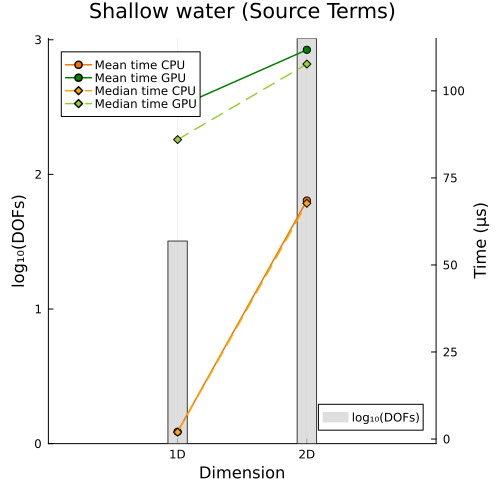
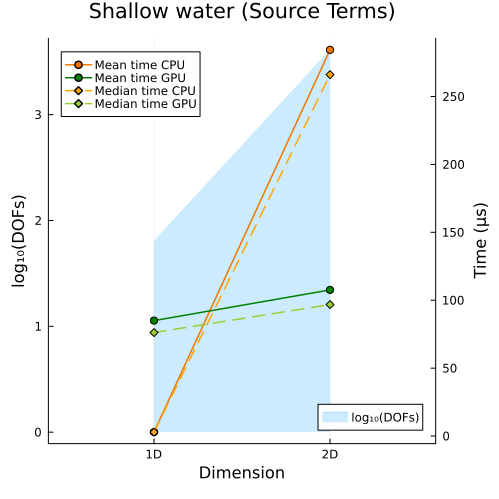
Deploying to gh-pages from  @ 5250f5a21b5779a0c4a3387f5e90d34b7bc2d409 🚀

diff --git a/benchmark/index.html b/benchmark/index.html
@@ -1,1 +1,1 @@
-<!doctype html> <html lang=en > <meta charset=UTF-8 > <meta name=viewport  content="width=device-width, initial-scale=1"> <link rel=stylesheet  href="/css/franklin.css"> <link rel=stylesheet  href="https://fonts.googleapis.com/css?family=Source+Sans+Pro:400,700,400italic|Source+Code+Pro:400,700" type="text/css"> <link rel=stylesheet  href="/css/font-awesome.min.css"> <link rel=stylesheet  href="/css/celeste.min.css"> <link rel=icon  type="image/png" sizes=192x192  href="/assets/favicon.png"> <link rel="shortcut icon" href="/assets/favicon.ico"> <link rel=apple-touch-icon-precomposed  sizes=152x152  href="/assets/apple-touch-icon.png"> <title>Comparison of <code>rhs&#33;</code> Performance: CPU vs. GPU</title> <header> <nav class=nav-main > <ul> <a class=hvr-underline-reveal  href="/" style="margin-top: 15px; margin-right: 15px"> <img src="/assets/favicon.png" alt=Logo  style="height: 45px; width: 45px"> </a> <li class=hvr-underline-reveal ><a href="/">Home</a> <li class=hvr-underline-reveal ><a href="/doc/">Doc</a> <li class=hvr-underline-reveal ><a href="/tutorial/">Tutorial</a> <li class=hvr-underline-reveal ><a href="/blog/">Blog</a> </ul> </nav> </header> <div class=franklin-content ><h1 id=comparison_of_rhs_performance_cpu_vs_gpu ><a href="#comparison_of_rhs_performance_cpu_vs_gpu" class=header-anchor >Comparison of <code>rhs&#33;</code> Performance: CPU vs. GPU</a></h1> <blockquote> <p>This documentation serves as a supplementary material for JuliaCon 2025. <br /></p> </blockquote> <p>See the benchmarking file at <a href="https://github.com/trixi-gpu/TrixiCUDA.jl/blob/v0.1.0-rc.2/benchmark/benchmark.ipynb">benchmark.ipynb</a>, and all results are compared between <a href="https://github.com/trixi-gpu/TrixiCUDA.jl/tree/v0.1.0-rc.2">TrixiCUDA.jl v0.1.0-rc.2</a> and <a href="https://github.com/trixi-framework/Trixi.jl/tree/v0.11.17">Trixi.jl v0.11.17</a>.</p> <p>We mainly show the mean and median times on CPU and GPU for each example, and include the degrees of freedom &#40;DOFs&#41; per field &#40;i.e., per independent solution variable&#41; in each plot, since DOFs are a dominant factor &#40;though not the only factor&#41; affecting computational time.</p> <p>We provide the link to each example in Trixi.jl as it is a more mature and stable package compared to TrixiCUDA.jl. Note that performance varies with different inputs; these benchmark results are provided for reference only.</p> <h2 id=linear_advection_equation ><a href="#linear_advection_equation" class=header-anchor >Linear Advection Equation</a></h2> <p>Left: Basic linear advection equation &#40;<a href="https://github.com/trixi-framework/Trixi.jl/blob/v0.11.17/examples/tree_1d_dgsem/elixir_advection_basic.jl">1D</a>, <a href="https://github.com/trixi-framework/Trixi.jl/blob/v0.11.17/examples/tree_2d_dgsem/elixir_advection_basic.jl">2D</a>, <a href="https://github.com/trixi-framework/Trixi.jl/blob/v0.11.17/examples/tree_3d_dgsem/elixir_advection_basic.jl">3D</a>&#41; <br />Right: Linear advection equation with mortar method &#40;<a href="https://github.com/trixi-framework/Trixi.jl/blob/v0.11.17/examples/tree_2d_dgsem/elixir_advection_mortar.jl">2D</a>, <a href="https://github.com/trixi-framework/Trixi.jl/blob/v0.11.17/examples/tree_3d_dgsem/elixir_advection_mortar.jl">3D</a>&#41;</p> <table style="background: transparent; border: none;"> <tr> <td style="background: transparent; border: none;"> <img src="/assets/benchmark/bench1.png" style="width: 300px;"> <td style="background: transparent; border: none;"> <img src="/assets/benchmark/bench2.png" style="width: 300px;"> </table> <h2 id=compressible_euler_equations ><a href="#compressible_euler_equations" class=header-anchor >Compressible Euler Equations</a></h2> <p>Left: Compressible Euler equations with entropy-conservative flux &#40;<a href="https://github.com/trixi-framework/Trixi.jl/blob/v0.11.17/examples/tree_1d_dgsem/elixir_euler_ec.jl">1D</a>, <a href="https://github.com/trixi-framework/Trixi.jl/blob/v0.11.17/examples/tree_2d_dgsem/elixir_euler_ec.jl">2D</a>, <a href="https://github.com/trixi-framework/Trixi.jl/blob/v0.11.17/examples/tree_3d_dgsem/elixir_euler_ec.jl">3D</a>&#41; Right: Compressible Euler equations with shock capturing &#40;<a href="https://github.com/trixi-framework/Trixi.jl/blob/v0.11.17/examples/tree_1d_dgsem/elixir_euler_shockcapturing.jl">1D</a>, <a href="https://github.com/trixi-framework/Trixi.jl/blob/v0.11.17/examples/tree_2d_dgsem/elixir_euler_shockcapturing.jl">2D</a>, <a href="https://github.com/trixi-framework/Trixi.jl/blob/v0.11.17/examples/tree_3d_dgsem/elixir_euler_shockcapturing.jl">3D</a>&#41;</p> <table style="background: transparent; border: none;"> <tr> <td style="background: transparent; border: none;"> <img src="/assets/benchmark/bench3.png" style="width: 300px;"> <td style="background: transparent; border: none;"> <img src="/assets/benchmark/bench4.png" style="width: 300px;"> </table> <h2 id=hyperbolic_diffusion_equations ><a href="#hyperbolic_diffusion_equations" class=header-anchor >Hyperbolic Diffusion Equations</a></h2> <p>Hyperbolic diffusion equations with non-periodic boundary conditions &#40;<a href="https://github.com/trixi-framework/Trixi.jl/blob/v0.11.17/examples/tree_1d_dgsem/elixir_hypdiff_nonperiodic.jl">1D</a>, <a href="https://github.com/trixi-framework/Trixi.jl/blob/v0.11.17/examples/tree_2d_dgsem/elixir_hypdiff_nonperiodic.jl">2D</a>, <a href="https://github.com/trixi-framework/Trixi.jl/blob/v0.11.17/examples/tree_3d_dgsem/elixir_hypdiff_nonperiodic.jl">3D</a>&#41;</p> <div align=center > <img src="/assets/benchmark/bench8.png" style="width: 300px;"> </div> <h2 id=ideal_glm-mhd_equations ><a href="#ideal_glm-mhd_equations" class=header-anchor >Ideal GLM-MHD Equations</a></h2> <p>Upper: Ideal GLM-MHD equations with entropy-conservative flux &#40;<a href="https://github.com/trixi-framework/Trixi.jl/blob/v0.11.17/examples/tree_1d_dgsem/elixir_mhd_ec.jl">1D</a>, <a href="https://github.com/trixi-framework/Trixi.jl/blob/v0.11.17/examples/tree_2d_dgsem/elixir_mhd_ec.jl">2D</a>, <a href="https://github.com/trixi-framework/Trixi.jl/blob/v0.11.17/examples/tree_3d_dgsem/elixir_mhd_ec.jl">3D</a>&#41; <br />Lower left: Ideal GLM-MHD Alfven wave &#40;<a href="https://github.com/trixi-framework/Trixi.jl/blob/v0.11.17/examples/tree_1d_dgsem/elixir_mhd_alfven_wave.jl">1D</a>, <a href="https://github.com/trixi-framework/Trixi.jl/blob/v0.11.17/examples/tree_2d_dgsem/elixir_mhd_alfven_wave.jl">2D</a>, <a href="https://github.com/trixi-framework/Trixi.jl/blob/v0.11.17/examples/tree_3d_dgsem/elixir_mhd_alfven_wave.jl">3D</a>&#41; <br />Lower right: Ideal GLM-MHD Alfven wave with mortar method &#40;<a href="https://github.com/trixi-framework/Trixi.jl/blob/v0.11.17/examples/tree_2d_dgsem/elixir_mhd_alfven_wave_mortar.jl">2D</a>, <a href="https://github.com/trixi-framework/Trixi.jl/blob/v0.11.17/examples/tree_3d_dgsem/elixir_mhd_alfven_wave_mortar.jl">3D</a>&#41;</p> <p> <div align=center > <img src="/assets/benchmark/bench5.png" style="width: 300px;"> </div> <table style="background: transparent; border: none;"> <tr> <td style="background: transparent; border: none;"> <img src="/assets/benchmark/bench6.png" style="width: 300px;"> <td style="background: transparent; border: none;"> <img src="/assets/benchmark/bench7.png" style="width: 300px;"> </table> </p> <h2 id=shallow_water_equations ><a href="#shallow_water_equations" class=header-anchor >Shallow Water Equations</a></h2> <p>Left: Shallow water equations with entropy conservative flux &#40;<a href="https://github.com/trixi-framework/Trixi.jl/blob/v0.11.17/examples/tree_1d_dgsem/elixir_shallowwater_ec.jl">1D</a>, <a href="https://github.com/trixi-framework/Trixi.jl/blob/v0.11.17/examples/tree_2d_dgsem/elixir_shallowwater_ec.jl">2D</a>&#41; <br />Right: Shallow water equations with source terms &#40;<a href="https://github.com/trixi-framework/Trixi.jl/blob/v0.11.17/examples/tree_1d_dgsem/elixir_shallowwater_source_terms.jl">1D</a>, <a href="https://github.com/trixi-framework/Trixi.jl/blob/v0.11.17/examples/tree_2d_dgsem/elixir_shallowwater_source_terms.jl">2D</a>&#41;</p> <table style="background: transparent; border: none;"> <tr> <td style="background: transparent; border: none;"> <img src="/assets/benchmark/bench9.png" style="width: 300px;"> <td style="background: transparent; border: none;"> <img src="/assets/benchmark/bench10.png" style="width: 300px;"> </table> <h2 id=takeaway ><a href="#takeaway" class=header-anchor >Takeaway</a></h2> <p>For simple cases &#40;for example, if the CPU performance is less than 100 μs&#41;, it is not advantageous to run on the GPU, since the overhead of using the GPU outweighs any performance gain. However, for more complex cases &#40;such as when execution time on the CPU exceeds 1,000 μs&#41;, running on the GPU can provide significant benefits. Also, remember that DOFs are the dominant, but not the sole—factor, affecting computation time.</p> <div class=page-foot > <p> &copy; <a href="https://github.com/trixi-gpu" target=_blank >Trixi-GPU</a> developers. Powered by <a href="https://github.com/tlienart/Franklin.jl" target=_blank >Franklin.jl</a> and the <a href="https://julialang.org" target=_blank >Julia programming language</a>. </p> </div></div>
+<!doctype html> <html lang=en > <meta charset=UTF-8 > <meta name=viewport  content="width=device-width, initial-scale=1"> <link rel=stylesheet  href="/css/franklin.css"> <link rel=stylesheet  href="https://fonts.googleapis.com/css?family=Source+Sans+Pro:400,700,400italic|Source+Code+Pro:400,700" type="text/css"> <link rel=stylesheet  href="/css/font-awesome.min.css"> <link rel=stylesheet  href="/css/celeste.min.css"> <link rel=icon  type="image/png" sizes=192x192  href="/assets/favicon.png"> <link rel="shortcut icon" href="/assets/favicon.ico"> <link rel=apple-touch-icon-precomposed  sizes=152x152  href="/assets/apple-touch-icon.png"> <title>Comparison of <code>rhs&#33;</code> Performance: CPU vs. GPU</title> <header> <nav class=nav-main > <ul> <a class=hvr-underline-reveal  href="/" style="margin-top: 15px; margin-right: 15px"> <img src="/assets/favicon.png" alt=Logo  style="height: 45px; width: 45px"> </a> <li class=hvr-underline-reveal ><a href="/">Home</a> <li class=hvr-underline-reveal ><a href="/doc/">Doc</a> <li class=hvr-underline-reveal ><a href="/tutorial/">Tutorial</a> <li class=hvr-underline-reveal ><a href="/blog/">Blog</a> </ul> </nav> </header> <div class=franklin-content ><h1 id=comparison_of_rhs_performance_cpu_vs_gpu ><a href="#comparison_of_rhs_performance_cpu_vs_gpu" class=header-anchor >Comparison of <code>rhs&#33;</code> Performance: CPU vs. GPU</a></h1> <blockquote> <p>This documentation serves as a supplementary material for JuliaCon 2025. <br /></p> </blockquote> <p>See the benchmarking file at <a href="">benchmark.ipynb</a> &#40;TODO: add link&#41;, and all results are compared between <a href="">TrixiCUDA.jl v0.1.0-rc.3</a> &#40;TODO: add link&#41; and <a href="https://github.com/trixi-framework/Trixi.jl/tree/v0.11.17">Trixi.jl v0.11.17</a>. All the benchmark examples can be found in the <a href="">benchmark</a> directory &#40;TODO: add link&#41;.</p> <p>We mainly show the mean and median times on CPU and GPU for each example, and include the degrees of freedom &#40;DOFs&#41; per field &#40;i.e., per independent solution variable&#41; in each plot, since DOFs are a dominant factor &#40;though not the only factor&#41; affecting computational time.</p> <p>We provide the link to each example in Trixi.jl as it is a more mature and stable package compared to TrixiCUDA.jl. Note that performance varies with different inputs; these benchmark results are provided for reference only.</p> <h2 id=approaches ><a href="#approaches" class=header-anchor >Approaches</a></h2> <p>We adopt two approaches here: </p> <ul> <li><p>First, we maintain a consistent solution resolution per space dimension by fixing both the degree of polynomial basis &#40;i.e., <code>polydeg</code>&#41; and mesh refinement level &#40;i.e., <code>initial_refinement_level</code>&#41;, while varying the problem dimension from 1D to 2D to 3D. In this way, we observe a linear increase in log DOFs with problem dimension.</p> <li><p>Second, for each problem type, we maintain a constant number of DOFs across 1D, 2D, and 3D by changing the polynomial degree &#40;i.e., <code>polydeg</code>&#41; and mesh refinement level &#40;i.e., <code>initial_refinement_level</code>&#41;. This way produces an roughly flat log DOFs curve across all dimensions.</p> </ul> <p>We will present benchmark results for two approaches.</p> <h2 id=results ><a href="#results" class=header-anchor >Results</a></h2> <h3 id=linear_advection_equation ><a href="#linear_advection_equation" class=header-anchor >Linear Advection Equation</a></h3> <p>Left: Basic linear advection equation &#40;<a href="https://github.com/trixi-framework/Trixi.jl/blob/v0.11.17/examples/tree_1d_dgsem/elixir_advection_basic.jl">1D</a>, <a href="https://github.com/trixi-framework/Trixi.jl/blob/v0.11.17/examples/tree_2d_dgsem/elixir_advection_basic.jl">2D</a>, <a href="https://github.com/trixi-framework/Trixi.jl/blob/v0.11.17/examples/tree_3d_dgsem/elixir_advection_basic.jl">3D</a>&#41; <br />Right: Linear advection equation with mortar method &#40;<a href="https://github.com/trixi-framework/Trixi.jl/blob/v0.11.17/examples/tree_2d_dgsem/elixir_advection_mortar.jl">2D</a>, <a href="https://github.com/trixi-framework/Trixi.jl/blob/v0.11.17/examples/tree_3d_dgsem/elixir_advection_mortar.jl">3D</a>&#41;</p> <ul> <li><p>First approach</p> </ul> <table style="background: transparent; border: none;"> <tr> <td style="background: transparent; border: none;"> <img src="/assets/benchmark/bench1.png" style="width: 300px;"> <td style="background: transparent; border: none;"> <img src="/assets/benchmark/bench2.png" style="width: 300px;"> </table> <ul> <li><p>Second approach</p> </ul> <table style="background: transparent; border: none;"> <tr> <td style="background: transparent; border: none;"> <img src="/assets/benchmark/bench1_.png" style="width: 300px;"> <td style="background: transparent; border: none;"> <img src="/assets/benchmark/bench2_.png" style="width: 300px;"> </table> <h3 id=compressible_euler_equations ><a href="#compressible_euler_equations" class=header-anchor >Compressible Euler Equations</a></h3> <p>Left: Compressible Euler equations with entropy-conservative flux &#40;<a href="https://github.com/trixi-framework/Trixi.jl/blob/v0.11.17/examples/tree_1d_dgsem/elixir_euler_ec.jl">1D</a>, <a href="https://github.com/trixi-framework/Trixi.jl/blob/v0.11.17/examples/tree_2d_dgsem/elixir_euler_ec.jl">2D</a>, <a href="https://github.com/trixi-framework/Trixi.jl/blob/v0.11.17/examples/tree_3d_dgsem/elixir_euler_ec.jl">3D</a>&#41; Right: Compressible Euler equations with shock capturing &#40;<a href="https://github.com/trixi-framework/Trixi.jl/blob/v0.11.17/examples/tree_1d_dgsem/elixir_euler_shockcapturing.jl">1D</a>, <a href="https://github.com/trixi-framework/Trixi.jl/blob/v0.11.17/examples/tree_2d_dgsem/elixir_euler_shockcapturing.jl">2D</a>, <a href="https://github.com/trixi-framework/Trixi.jl/blob/v0.11.17/examples/tree_3d_dgsem/elixir_euler_shockcapturing.jl">3D</a>&#41;</p> <ul> <li><p>Fisrt approach</p> </ul> <table style="background: transparent; border: none;"> <tr> <td style="background: transparent; border: none;"> <img src="/assets/benchmark/bench3.png" style="width: 300px;"> <td style="background: transparent; border: none;"> <img src="/assets/benchmark/bench4.png" style="width: 300px;"> </table> <ul> <li><p>Second approach </p> </ul> <table style="background: transparent; border: none;"> <tr> <td style="background: transparent; border: none;"> <img src="/assets/benchmark/bench3_.png" style="width: 300px;"> <td style="background: transparent; border: none;"> <img src="/assets/benchmark/bench4_.png" style="width: 300px;"> </table> <h3 id=hyperbolic_diffusion_equations ><a href="#hyperbolic_diffusion_equations" class=header-anchor >Hyperbolic Diffusion Equations</a></h3> <p>Hyperbolic diffusion equations with non-periodic boundary conditions &#40;<a href="https://github.com/trixi-framework/Trixi.jl/blob/v0.11.17/examples/tree_1d_dgsem/elixir_hypdiff_nonperiodic.jl">1D</a>, <a href="https://github.com/trixi-framework/Trixi.jl/blob/v0.11.17/examples/tree_2d_dgsem/elixir_hypdiff_nonperiodic.jl">2D</a>, <a href="https://github.com/trixi-framework/Trixi.jl/blob/v0.11.17/examples/tree_3d_dgsem/elixir_hypdiff_nonperiodic.jl">3D</a>&#41;</p> <ul> <li><p>First approach</p> </ul> <div align=center > <img src="/assets/benchmark/bench8.png" style="width: 300px;"> </div> <ul> <li><p>Second approach</p> </ul> <div align=center > <img src="/assets/benchmark/bench8_.png" style="width: 300px;"> </div> <h3 id=ideal_glm-mhd_equations ><a href="#ideal_glm-mhd_equations" class=header-anchor >Ideal GLM-MHD Equations</a></h3> <p>Upper: Ideal GLM-MHD equations with entropy-conservative flux &#40;<a href="https://github.com/trixi-framework/Trixi.jl/blob/v0.11.17/examples/tree_1d_dgsem/elixir_mhd_ec.jl">1D</a>, <a href="https://github.com/trixi-framework/Trixi.jl/blob/v0.11.17/examples/tree_2d_dgsem/elixir_mhd_ec.jl">2D</a>, <a href="https://github.com/trixi-framework/Trixi.jl/blob/v0.11.17/examples/tree_3d_dgsem/elixir_mhd_ec.jl">3D</a>&#41; <br />Lower left: Ideal GLM-MHD Alfven wave &#40;<a href="https://github.com/trixi-framework/Trixi.jl/blob/v0.11.17/examples/tree_1d_dgsem/elixir_mhd_alfven_wave.jl">1D</a>, <a href="https://github.com/trixi-framework/Trixi.jl/blob/v0.11.17/examples/tree_2d_dgsem/elixir_mhd_alfven_wave.jl">2D</a>, <a href="https://github.com/trixi-framework/Trixi.jl/blob/v0.11.17/examples/tree_3d_dgsem/elixir_mhd_alfven_wave.jl">3D</a>&#41; <br />Lower right: Ideal GLM-MHD Alfven wave with mortar method &#40;<a href="https://github.com/trixi-framework/Trixi.jl/blob/v0.11.17/examples/tree_2d_dgsem/elixir_mhd_alfven_wave_mortar.jl">2D</a>, <a href="https://github.com/trixi-framework/Trixi.jl/blob/v0.11.17/examples/tree_3d_dgsem/elixir_mhd_alfven_wave_mortar.jl">3D</a>&#41;</p> <ul> <li><p>First approach</p> </ul> <p> <div align=center > <img src="/assets/benchmark/bench5.png" style="width: 300px;"> </div> <table style="background: transparent; border: none;"> <tr> <td style="background: transparent; border: none;"> <img src="/assets/benchmark/bench6.png" style="width: 300px;"> <td style="background: transparent; border: none;"> <img src="/assets/benchmark/bench7.png" style="width: 300px;"> </table> </p> <ul> <li><p>Second approach</p> </ul> <p> <div align=center > <img src="/assets/benchmark/bench5_.png" style="width: 300px;"> </div> <table style="background: transparent; border: none;"> <tr> <td style="background: transparent; border: none;"> <img src="/assets/benchmark/bench6_.png" style="width: 300px;"> <td style="background: transparent; border: none;"> <img src="/assets/benchmark/bench7_.png" style="width: 300px;"> </table> </p> <h3 id=shallow_water_equations ><a href="#shallow_water_equations" class=header-anchor >Shallow Water Equations</a></h3> <p>Left: Shallow water equations with entropy conservative flux &#40;<a href="https://github.com/trixi-framework/Trixi.jl/blob/v0.11.17/examples/tree_1d_dgsem/elixir_shallowwater_ec.jl">1D</a>, <a href="https://github.com/trixi-framework/Trixi.jl/blob/v0.11.17/examples/tree_2d_dgsem/elixir_shallowwater_ec.jl">2D</a>&#41; <br />Right: Shallow water equations with source terms &#40;<a href="https://github.com/trixi-framework/Trixi.jl/blob/v0.11.17/examples/tree_1d_dgsem/elixir_shallowwater_source_terms.jl">1D</a>, <a href="https://github.com/trixi-framework/Trixi.jl/blob/v0.11.17/examples/tree_2d_dgsem/elixir_shallowwater_source_terms.jl">2D</a>&#41;</p> <ul> <li><p>First approach</p> </ul> <table style="background: transparent; border: none;"> <tr> <td style="background: transparent; border: none;"> <img src="/assets/benchmark/bench9.png" style="width: 300px;"> <td style="background: transparent; border: none;"> <img src="/assets/benchmark/bench10.png" style="width: 300px;"> </table> <ul> <li><p>Second approach</p> </ul> <table style="background: transparent; border: none;"> <tr> <td style="background: transparent; border: none;"> <img src="/assets/benchmark/bench9_.png" style="width: 300px;"> <td style="background: transparent; border: none;"> <img src="/assets/benchmark/bench10_.png" style="width: 300px;"> </table> <h2 id=takeaway ><a href="#takeaway" class=header-anchor >Takeaway</a></h2> <p>In the first approach, CPU and GPU runtimes both rise as DOFs increase, simply because more unknowns must be solved; while in the second approach, even when the total DOFs are held constant, CPU and GPU runtimes still increase with problem size, since the cost of solving each unknown also grows with the spatial dimension of the problem. </p> <p>However, in both approaches, we observe that the slope of the runtime on the GPU is smaller than that on the CPU, so the GPU is less sensitive to increases in data size and thus robust in handling large-scale problems. So, we can conclude that the speedup increases with the problem size &#40;including both the number of spatial dimensions and the level of solution resolution&#41;.</p> <div class=page-foot > <p> &copy; <a href="https://github.com/trixi-gpu" target=_blank >Trixi-GPU</a> developers. Powered by <a href="https://github.com/tlienart/Franklin.jl" target=_blank >Franklin.jl</a> and the <a href="https://julialang.org" target=_blank >Julia programming language</a>. </p> </div></div>
